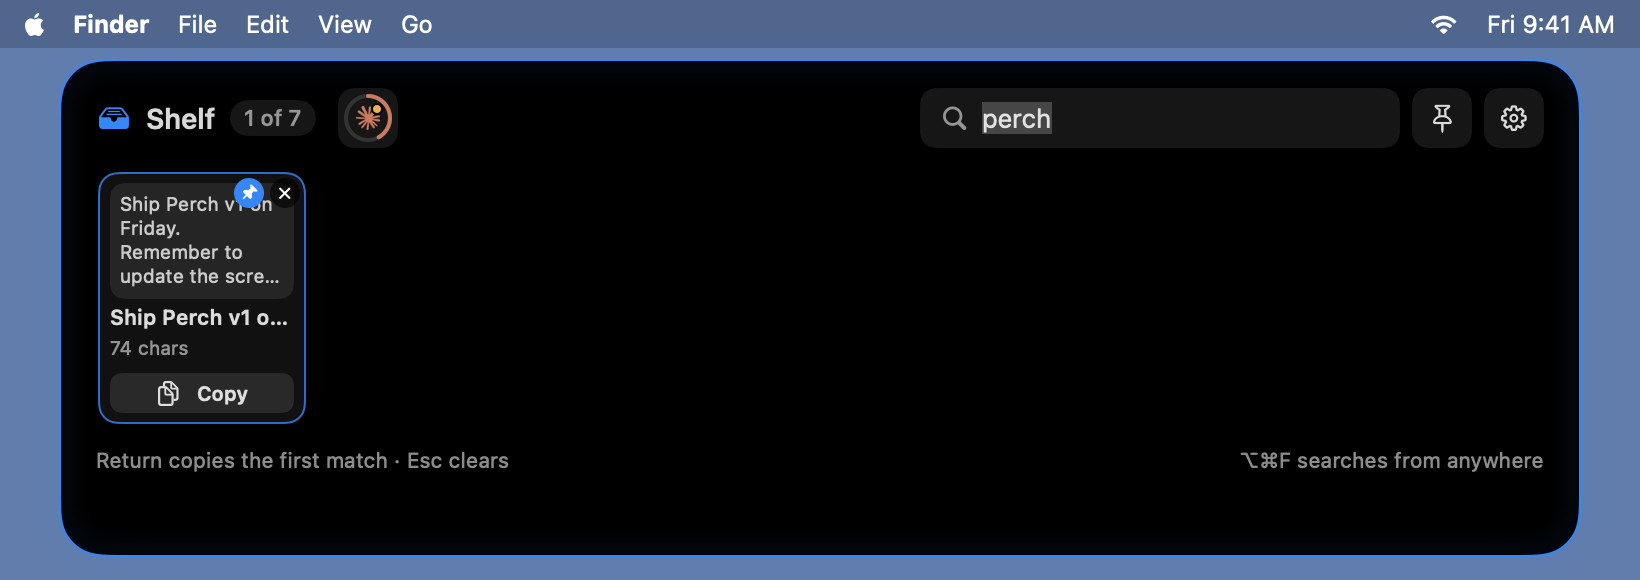
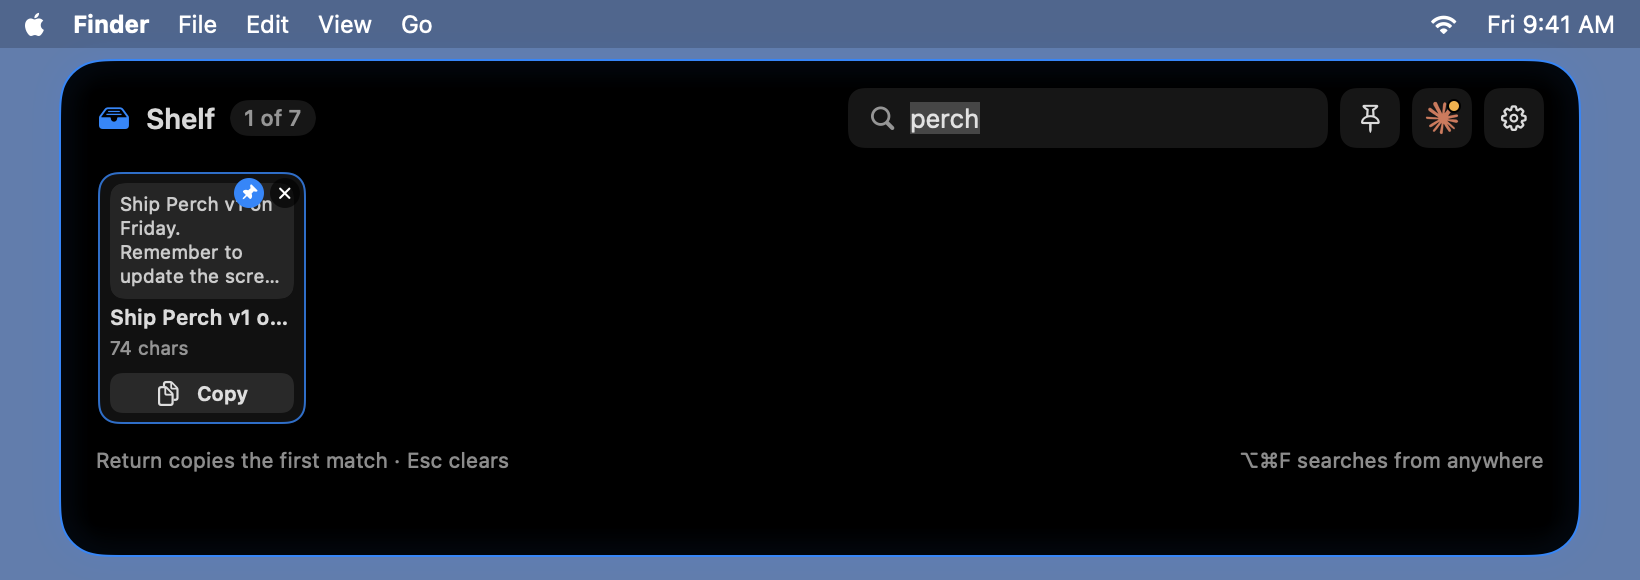
Move the Claude button next to Settings and drop its usage ring

diff --git a/Sources/Perch/Island/ExpandedShelfView.swift b/Sources/Perch/Island/ExpandedShelfView.swift
@@ -186,7 +186,7 @@ struct ExpandedShelfView: View {
         .frame(maxWidth: .infinity, alignment: .leading)
     }
 
-    /// Left: title, count and the Claude logo. Right: search, pin, settings.
+    /// Left: title and count. Right: search, pin, the Claude button and settings.
     private var header: some View {
         HStack(spacing: 12) {
             // The side panel is narrow: while typing a search, the box takes the title's room.
@@ -208,14 +208,6 @@ struct ExpandedShelfView: View {
                         Text("Shelf")
                             .font(.system(size: 14, weight: .semibold))
                         countBadge(query.isEmpty ? "\(store.items.count)" : "\(visibleItems.count) of \(filteredItems.count)")
-                    }
-                    if claudeAvailable {
-                        ClaudeButton(active: showingClaude,
-                                     status: claudeSessions.sessions.first?.status ?? .idle,
-                                     fiveHourPercent: claudeUsage.usage?.currentFiveHourPercent) {
-                            model.showingClaude.toggle()
-                        }
-                        .padding(.leading, 4)
                     }
                 }
             }
@@ -260,6 +252,14 @@ struct ExpandedShelfView: View {
                            help: model.isPinned ? "Let the island close" : "Keep the island open (⌥Space)",
                            highlighted: model.isPinned,
                            action: actions.togglePin)
+                // The Claude button sits with the other buttons, just before Settings.
+                if claudeAvailable {
+                    ClaudeButton(active: showingClaude,
+                                 status: claudeSessions.sessions.first?.status ?? .idle,
+                                 fiveHourPercent: claudeUsage.usage?.currentFiveHourPercent) {
+                        model.showingClaude.toggle()
+                    }
+                }
                 IconButton(systemName: "gearshape", help: "Settings", highlighted: false, action: actions.openSettings)
             }
             .animation(.easeOut(duration: 0.15), value: model.isSearching)
@@ -327,8 +327,8 @@ extension ExpandedShelfView {
     }
 }
 
-/// Top-right Claude logo: switches between the shelf and the Claude view. The ring
-/// around it fills with the 5-hour usage, so it can be read without switching.
+/// The Claude logo next to Settings: switches between the shelf and the Claude view.
+/// Hovering it shows the 5-hour usage.
 private struct ClaudeButton: View {
     let active: Bool
     let status: ClaudeSession.Status
@@ -340,17 +340,7 @@ private struct ClaudeButton: View {
             ZStack {
                 RoundedRectangle(cornerRadius: 8)
                     .fill(active ? ClaudeLogo.orange.opacity(0.25) : Color.primary.opacity(0.1))
-                if let percent = fiveHourPercent {
-                    Circle()
-                        .stroke(Color.primary.opacity(0.15), lineWidth: 2)
-                        .frame(width: 22, height: 22)
-                    Circle()
-                        .trim(from: 0, to: max(0.02, min(percent, 100) / 100))
-                        .stroke(ClaudeLogo.orange, style: StrokeStyle(lineWidth: 2, lineCap: .round))
-                        .rotationEffect(.degrees(-90))
-                        .frame(width: 22, height: 22)
-                }
-                ClaudeMarkView(status: status, size: fiveHourPercent == nil ? 14 : 11)
+                ClaudeMarkView(status: status, size: 14)
             }
             .frame(width: 30, height: 30)
             .overlay(RoundedRectangle(cornerRadius: 8)

diff --git a/README.md b/README.md
@@ -14,7 +14,7 @@ switching windows.
 
 <img src="docs/screenshots/shelf-open.png" alt="The open shelf with image, text, code and file cards">
 
-**Claude view.** Click the Claude logo for your running Claude Code sessions and plan usage. The ring around the logo shows 5-hour usage at a glance.
+**Claude view.** Click the Claude logo (next to Settings) for your running Claude Code sessions and plan usage. Hover the logo to see your 5-hour usage.
 
 <img src="docs/screenshots/claude-view.png" alt="The Claude view with three session cards, 5-hour and weekly usage meters, and a 30-day activity strip">
 
@@ -43,7 +43,7 @@ switching windows.
 - **Clipboard history (optional).** Turn on Settings → Capture → "Add everything you copy to the shelf" and copied text, images and files land on it too (last 30 in the Recent tab). It's off by default so the shelf only holds what you add on purpose; ⌥⌘V pins whatever is on the clipboard any time.
 - **Secret blur.** Text that looks like an API key, token, private key or card number is blurred until you click it.
   Copies from password managers are never recorded.
-- **Claude Code sessions** (off by default: turn on **Show Claude** in Settings → Claude Code). A small Claude mark on the island shows your running Claude Code sessions: it spins while one is working, pulses amber when one needs you, and is grey when they're idle. Open the island and click the Claude logo at the top right to switch the cards to your sessions, with full usage meters at the bottom (click it again to go back to the shelf). The ring around the logo fills with your 5-hour usage, so you can check it without switching. The header counts running sub-agents across all sessions ("2 sessions · 5 agents"), and each card shows its own count; hover a card to see what they're doing. Clicking a desktop-app session opens it in the Claude app. Clicking a terminal session brings its terminal to the front and selects the exact tab in Terminal and iTerm2 (macOS asks once for permission). Right-click a terminal session to open a copy in the Claude app. Status comes from `~/.claude/sessions/` and sub-agents from `~/.claude/projects/…/subagents/`, undocumented formats that a Claude update could change: sub-agents silent for 30 minutes aren't counted, and the count is hidden if the files stop looking as expected. Turn off just this in Settings → Claude Code, or switch off Show Claude to hide everything Claude.
+- **Claude Code sessions** (off by default: turn on **Show Claude** in Settings → Claude Code). A small Claude mark on the island shows your running Claude Code sessions: it spins while one is working, pulses amber when one needs you, and is grey when they're idle. Open the island and click the Claude logo next to Settings to switch the cards to your sessions, with full usage meters at the bottom (click it again to go back to the shelf). Hover the logo to see your 5-hour usage without switching. The header counts running sub-agents across all sessions ("2 sessions · 5 agents"), and each card shows its own count; hover a card to see what they're doing. Clicking a desktop-app session opens it in the Claude app. Clicking a terminal session brings its terminal to the front and selects the exact tab in Terminal and iTerm2 (macOS asks once for permission). Right-click a terminal session to open a copy in the Claude app. Status comes from `~/.claude/sessions/` and sub-agents from `~/.claude/projects/…/subagents/`, undocumented formats that a Claude update could change: sub-agents silent for 30 minutes aren't counted, and the count is hidden if the files stop looking as expected. Turn off just this in Settings → Claude Code, or switch off Show Claude to hide everything Claude.
 - **Claude Code activity.** A 30-day strip next to the usage meters shows how many replies Claude gave you each day; click it (or Sessions | Activity at the top right) for the Activity view: a 26-week calendar, or the Hours tab above it to see when in the week and day you use Claude, with totals beside it: replies, active days, your busiest day and your streak. It counts Claude's replies in Claude Code's session logs (`~/.claude/projects/`), sub-agents included. Claude Code deletes old logs after 30 days by default, so Perch keeps its own daily totals in `~/Library/Application Support/Perch/claude-activity.json`. Only Claude Code is counted, not chats on claude.ai. Turn it off in Settings → Claude Code → Activity heatmap.
 
   <img src="docs/screenshots/claude-activity.png" alt="The Claude Activity view: a 26-week calendar of replies, a Calendar or Hours picker, and totals" width="820">
@@ -123,7 +123,7 @@ macOS doesn't show the warning for an app you built yourself.
    ./scripts/install.sh
    ```
 
-   Or, to also get the **Claude plan usage meters** (5-hour and weekly limits, and the ring around the Claude logo):
+   Or, to also get the **Claude plan usage meters** (5-hour and weekly limits):
 
    ```bash
    ./scripts/install.sh --with-claude-usage
